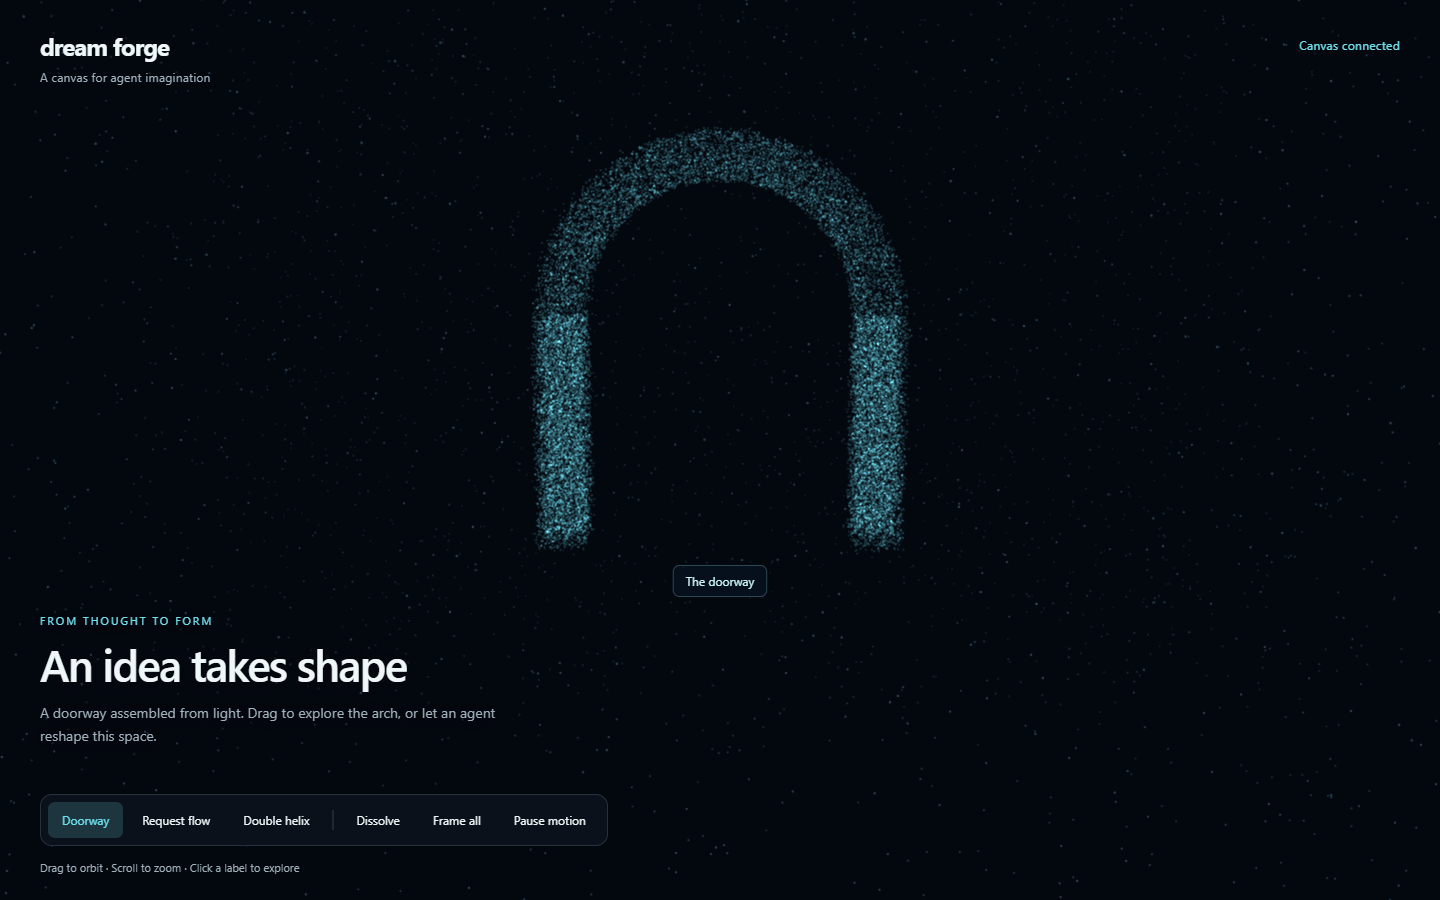
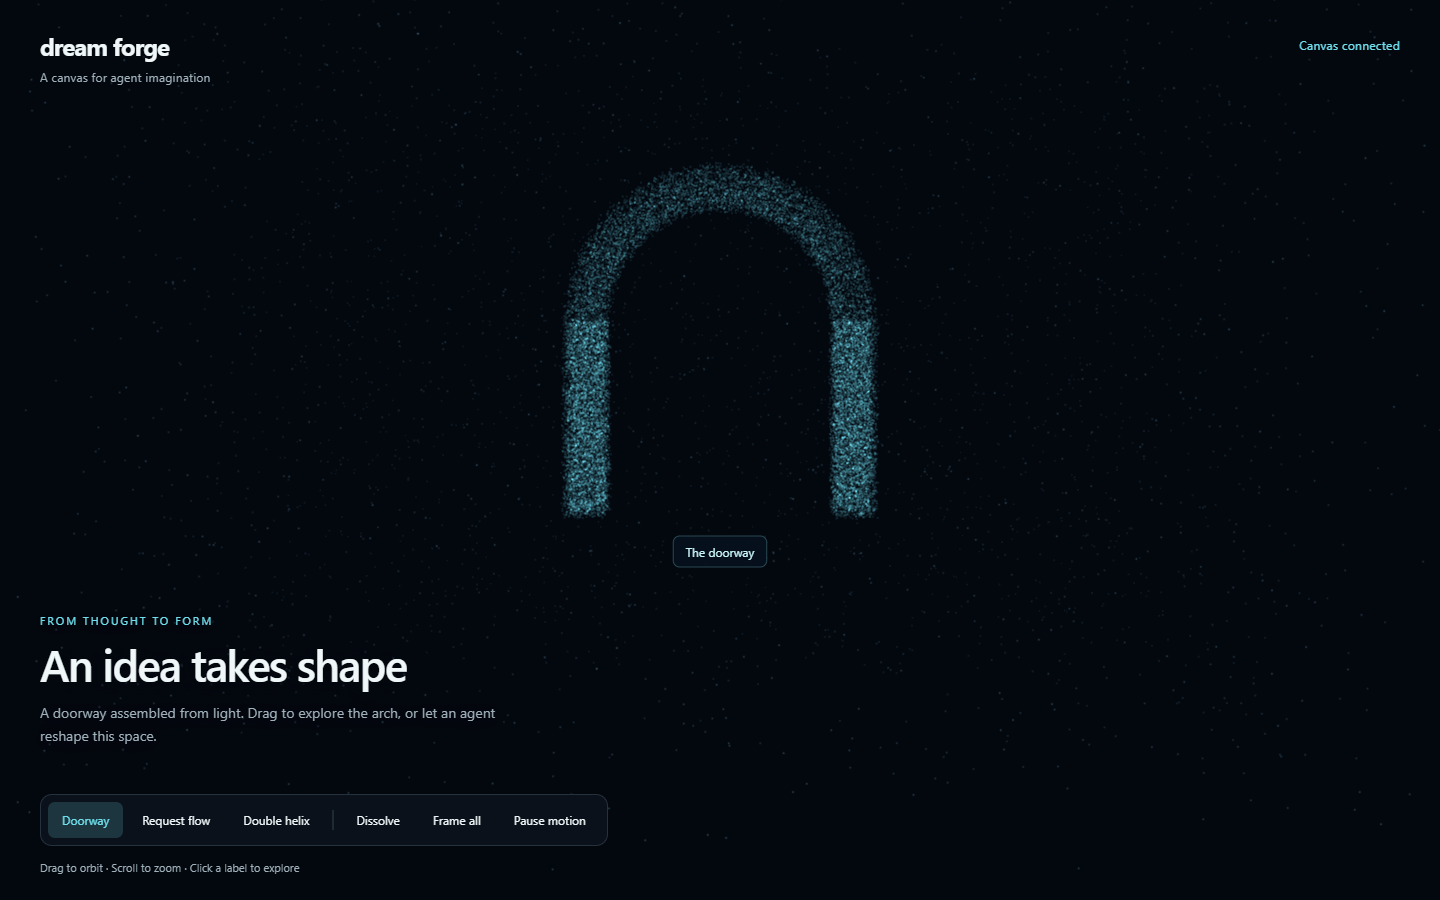
Fit the canvas to the real browser window and refit scenes on resize

Changed region(s): [[0.375, 0.1244, 0.625, 0.6222], [0.4688, 0.5911, 0.5312, 0.6533]]

diff --git a/web/app.js b/web/app.js
@@ -6,7 +6,7 @@ const $ = id => document.getElementById(id);
 const viewport=$('viewport'), labelLayer=$('labels');
 const error = message => {$('error').hidden=false; $('error').textContent=message;};
 const reduced = matchMedia('(prefers-reduced-motion: reduce)').matches;
-let paused = reduced, current, revision=-1, targetCamera=null, targetLook=null;
+let paused = reduced, current, currentFocus=null, revision=-1, targetCamera=null, targetLook=null;
 const camera = new THREE.PerspectiveCamera(48,innerWidth/innerHeight,.1,1000);
 camera.position.set(0,3,19);
 const scene=new THREE.Scene(); scene.fog=new THREE.FogExp2('#03070e',.012);
@@ -30,19 +30,34 @@ function focus(id) {send('focus',{id});}
 function updateProjection() {
   camera.aspect=innerWidth/innerHeight;
   const captionTop=document.querySelector('.caption').getBoundingClientRect().top;
-  const centerY=(110+captionTop)/2;
-  camera.setViewOffset(innerWidth,innerHeight,0,Math.max(0,innerHeight/2-centerY),innerWidth,innerHeight);
+  const top=document.querySelector('header').getBoundingClientRect().bottom+16;
+  const bottom=Math.max(top+80,captionTop-24);
+  const centerY=(top+bottom)/2;
+  camera.setViewOffset(innerWidth,innerHeight,0,innerHeight/2-centerY,innerWidth,innerHeight);
   camera.updateProjectionMatrix();
+  return {width:Math.max(100,innerWidth-80),height:bottom-top};
 }
 function frame(id=null) {
+  const area=updateProjection();
   const objects=current?.objects || [];
   const selected=id?objects.filter(o=>o.id===id):objects;
   const bounds=new THREE.Box3();
-  for(const o of selected) {const radius=o.scale*(o.shape==='helix'?2.3:1.8);const v=new THREE.Vector3(...o.position);bounds.expandByPoint(v.clone().addScalar(radius));bounds.expandByPoint(v.clone().addScalar(-radius));}
+  const extents={sphere:[1,1,1],box:[1,1,1],torus:[1.3,.3,1.3],cylinder:[1,1,1],cone:[1,1,1],arch:[1.43,1.78,.325],helix:[1,2,1]};
+  for(const o of selected) {
+    const v=new THREE.Vector3(...o.position),half=new THREE.Vector3(...extents[o.shape]).multiplyScalar(o.scale);
+    bounds.expandByPoint(v.clone().add(half));bounds.expandByPoint(v.clone().sub(half));
+    bounds.expandByPoint(new THREE.Vector3(o.position[0],o.position[1]-(o.shape==='helix'?2.2:1.8)*o.scale,o.position[2]));
+  }
+  if(!id) for(const connection of current?.connections||[]) {
+    const a=objects.find(o=>o.id===connection.from),b=objects.find(o=>o.id===connection.to);
+    const middle=new THREE.Vector3(...a.position).lerp(new THREE.Vector3(...b.position),.5);middle.y+=1.6;bounds.expandByPoint(middle);
+  }
   const center=selected.length?bounds.getCenter(new THREE.Vector3()):new THREE.Vector3();
   const size=selected.length?bounds.getSize(new THREE.Vector3()):new THREE.Vector3(12,8,10);
-  const distance=Math.max(7,Math.max(size.y,size.x/camera.aspect)/ (2*Math.tan(THREE.MathUtils.degToRad(24)))*1.5+size.z/2);
-  targetLook=center; targetCamera=center.clone().add(new THREE.Vector3(0,distance*.14,distance));
+  const tanHalf=Math.tan(THREE.MathUtils.degToRad(camera.fov/2));
+  const distance=Math.max(4,Math.max(size.y*innerHeight/area.height,size.x*innerHeight/area.width)/(2*tanHalf)*1.15+size.z/2);
+  controls.maxDistance=Math.max(180,distance*3);
+  targetLook=center; targetCamera=center.clone().add(new THREE.Vector3(0,0,distance));
   if(paused) {camera.position.copy(targetCamera);controls.target.copy(center);targetCamera=null;targetLook=null;}
   const o=objects.find(o=>o.id===id);$('detail').hidden=!o;
   if(o) {$('detail-title').textContent=o.label||o.id;$('detail-body').textContent=o.description||'No additional description provided.';}
@@ -75,7 +90,7 @@ function apply(state) {
     document.querySelectorAll('[data-demo]').forEach(b=>b.classList.toggle('active',({portal:'An idea takes shape',architecture:'Follow a request',helix:'Two paths, intertwined'})[b.dataset.demo]===current.title));
     if(paused) {positions.set(targets);colors.set(desiredColors);geometry.attributes.position.needsUpdate=true;geometry.attributes.color.needsUpdate=true;}
   }
-  updateProjection();frame(state.focus);
+  currentFocus=state.focus;frame(currentFocus);
 }
 const events=new EventSource('/api/events');events.onopen=()=>{$('connection').textContent='Canvas connected';$('connection').className='live';$('error').hidden=true;};events.onerror=()=>{$('connection').textContent='Reconnecting…';$('connection').className='';};events.onmessage=event=>{try{apply(JSON.parse(event.data));}catch(e){error(`Unable to display scene: ${e.message}`);}};
 const demos={
@@ -87,7 +102,7 @@ document.querySelectorAll('[data-demo]').forEach(button=>button.addEventListener
 $('reset').onclick=()=>send('clear',{});$('frame').onclick=()=>focus(null);$('close-detail').onclick=()=>focus(null);
 function motionButton() {$('motion').textContent=paused?'Resume motion':'Pause motion';$('motion').setAttribute('aria-pressed',String(paused));}
 $('motion').onclick=()=>{paused=!paused;motionButton();};motionButton();
-addEventListener('resize',()=>{updateProjection();renderer.setSize(innerWidth,innerHeight);});
+addEventListener('resize',()=>{renderer.setPixelRatio(Math.min(devicePixelRatio,2));renderer.setSize(innerWidth,innerHeight);frame(currentFocus);});
 let last=performance.now(),elapsed=0;
 function animate(now) {
   requestAnimationFrame(animate);const dt=Math.min((now-last)/1000,.05);last=now;

diff --git a/e2e/canvas.spec.js b/e2e/canvas.spec.js
@@ -50,3 +50,31 @@ test('small viewport and reduced motion remain usable',async({page,request})=>{
   expect(await page.evaluate(()=>document.documentElement.scrollWidth<=innerWidth)).toBe(true);
   await page.getByRole('button',{name:'Dissolve',exact:true}).click();await expect(page.locator('.label')).toHaveCount(0);
 });
+
+test('canvas follows window size and refits when resizing or recovering from zoom',async({page,request})=>{
+  await page.emulateMedia({reducedMotion:'reduce'});
+  await request.post('/api/clear',{data:{}});await page.goto('/');
+  await page.getByRole('button',{name:'Doorway',exact:true}).click();
+  for(const viewport of [{width:1280,height:620},{width:1024,height:600},{width:390,height:844}]) {
+    await page.setViewportSize(viewport);
+    await expect.poll(()=>page.evaluate(()=>{
+      const canvas=document.querySelector('canvas').getBoundingClientRect();
+      return {width:canvas.width,height:canvas.height};
+    })).toEqual(viewport);
+    const label=await page.locator('.label').boundingBox();
+    const caption=await page.locator('.caption').boundingBox();
+    expect(label.y).toBeGreaterThan(0);expect(label.y+label.height).toBeLessThan(caption.y);
+    const nav=await page.locator('nav').boundingBox();
+    expect(nav.x+nav.width).toBeLessThanOrEqual(viewport.width);expect(nav.y+nav.height).toBeLessThanOrEqual(viewport.height);
+    expect(await page.evaluate(()=>document.documentElement.scrollHeight<=innerHeight)).toBe(true);
+  }
+  await page.setViewportSize({width:1280,height:620});
+  await page.mouse.move(640,230);await page.mouse.wheel(0,-1200);
+  await page.getByRole('button',{name:'Frame all',exact:true}).click();
+  await expect.poll(async()=>{
+    const label=await page.locator('.label').boundingBox(),caption=await page.locator('.caption').boundingBox();
+    return label.y>0&&label.y+label.height<caption.y;
+  }).toBe(true);
+  await page.waitForTimeout(250);
+  await page.screenshot({path:'test-results/laptop-framing.png'});
+});

diff --git a/scripts/preview.js b/scripts/preview.js
@@ -5,8 +5,8 @@ import { getPort, request } from '../src/client.js';
 let server;
 try {server=await startServer(getPort());}
 catch(error) {if(error.code!=='EADDRINUSE'||(await request('health')).app!=='dream-forge')throw error;}
-const browser=await chromium.launch({headless:false});
-const page=await browser.newPage({viewport:{width:1440,height:900}});
+const browser=await chromium.launch({headless:false,args:['--start-maximized']});
+const page=await browser.newPage({viewport:null});
 await page.goto(`http://127.0.0.1:${getPort()}`);
 console.log('Dream Forge preview is open. Close the browser when finished.');
 await new Promise(resolve=>browser.on('disconnected',resolve));
